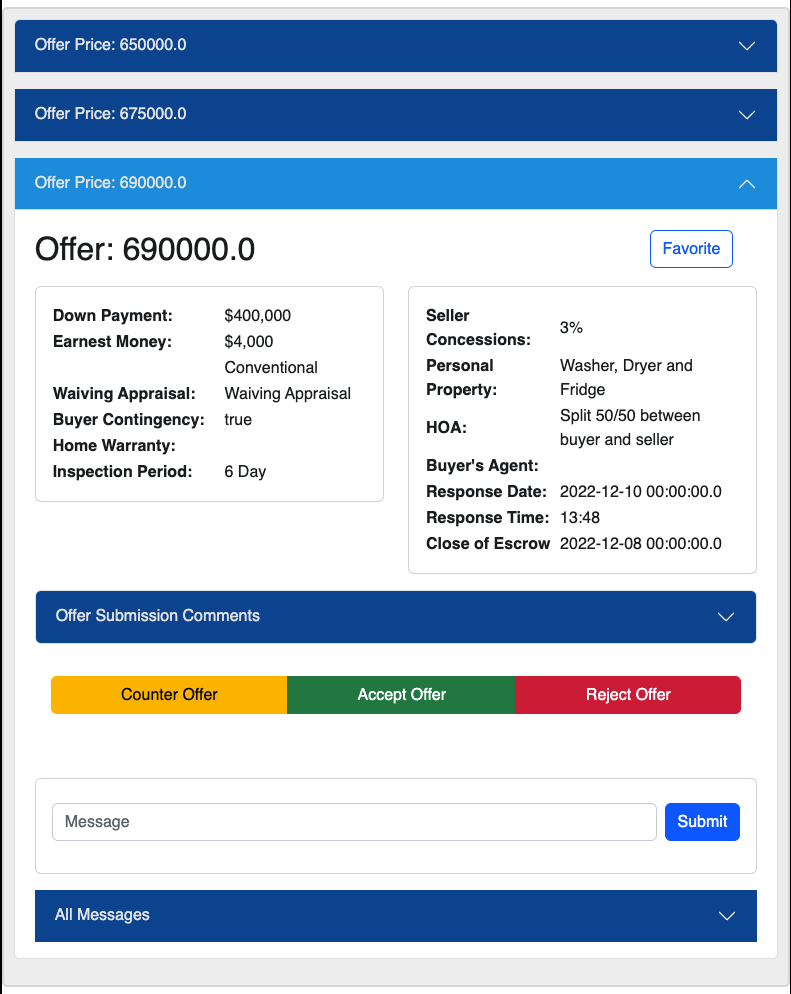
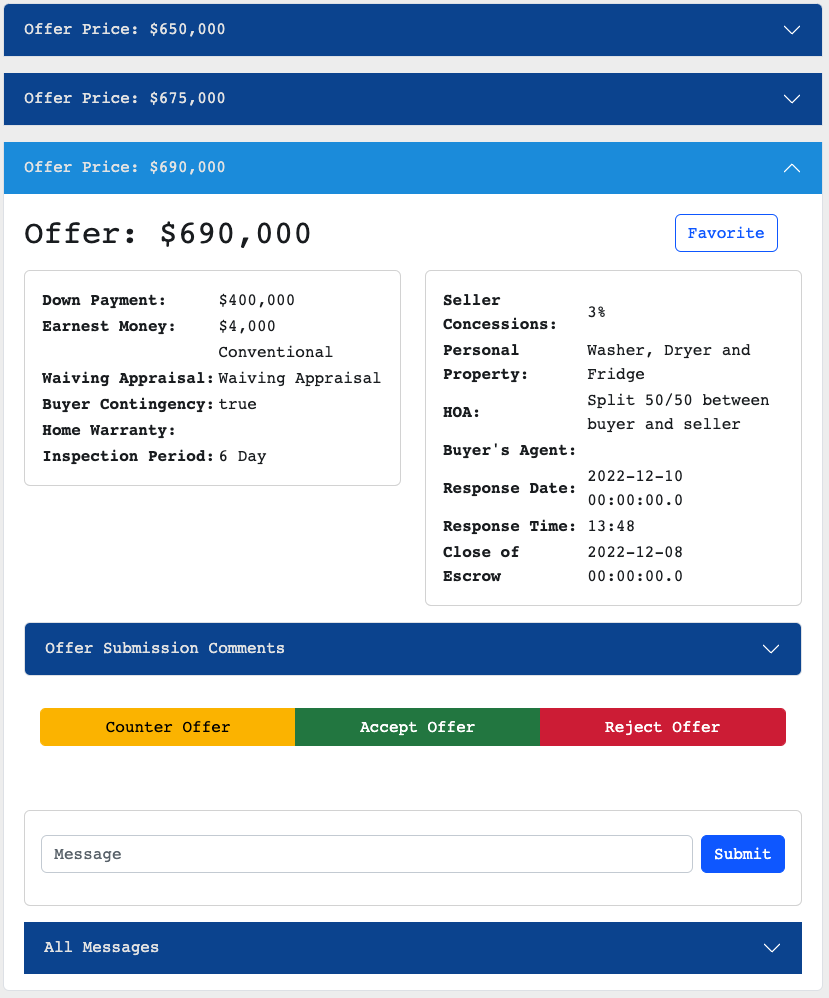
added splash page template

diff --git a/src/main/resources/templates/index.html b/src/main/resources/templates/index.html
@@ -14,6 +14,40 @@
         <h2 class="splash-message">Lets make an offer with Real Offer Hub!</h2>
         <img class="splash-image"  src="/images/splash-img1.jpg" alt="splash-img">
 
+<div class="splash-template">
+
+    <div class="agent-template">
+        <h2 class="agent-message">Your Dashboard as an Agent</h2>
+        <div class="template-image-div">
+            <h4> As an Agent you can view your listings <br>and offers in one page!</h4>
+            <img  class="template-image" src="/images/property-listings.png" alt="property-listings-img">
+        </div>
+        <div class="template-image-div">
+            <h4>Your offers and details will be <br> consolidated under the related property</h4>
+        <img class="template-image" src="/images/property-listing-offer-details.png" alt="property-listing-offer-detail-img">
+        </div>
+    </div>
+
+    <div class="seller-template">
+        <h2 class="seller-message">Your Dashboard as a Seller</h2>
+        <div class="template-image-div">
+            <h4>Your offers and details will be <br> consolidated under the related property</h4>
+            <img class="template-image" src="/images/seller-offer-info.png" alt="seller-offer-info-img">
+        </div>
+    </div>
+
+    <div class="communication-template">
+        <h2 class="communication-message">Your Message/Comment Board</h2>
+        <div class="template-image-div">
+            <h4>As a Seller you can view your <br> listings and offers in one page, <br> and send a decision to your agent</h4>
+            <img  class="template-image" src="/images/full-offer-info.png" alt="full-offer-message-img">
+        </div>
+        <div class="template-image-div">
+            <h4>Your offers and details will be <br> consolidated under the related property</h4>
+            <img class="template-image" src="/images/message-info.png" alt="message-img">
+        </div>
+    </div>
+</div>
     </main>
 
 

diff --git a/src/main/resources/static/css/grid.css b/src/main/resources/static/css/grid.css
@@ -34,6 +34,9 @@ header {
   grid-area: header;
 }
 
+
+
+
 .error-image{
     width: 100%;
     height: 100%;
@@ -49,6 +52,13 @@ header {
       font-family: 'Roboto Mono', monospace;
 }
 
+.error-status{
+    position: relative;
+}
+
+
+
+
 .splash-message{
       text-align: center;
       margin: auto;
@@ -60,20 +70,41 @@ header {
       font-family: 'Roboto Mono', monospace;
 }
 
-.error-status{
-    position: relative;
-}
-
 .splash-image{
     width: 100%;
-    height: 50%;
+    height: 700px;
     padding: 0px;
+}
+
+.template-image{
+    width:600px;
+    height: 650px;
+}
+
+.template-image-div{
+    display: inline-block;
+    margin-top: 18px;
+
+}
+
+.splash-template{
+    text-align: center;
+    margin-top: 18px;
+}
+
+.seller-template{
+    margin-top: 18px;
+}
+
+.communication-template{
+    margin-top: 18px;
 }
 
 
 main {
   grid-area: main;
   padding: 0px;
+  font-family: 'Roboto Mono', monospace;
 }
 
 .lside {
